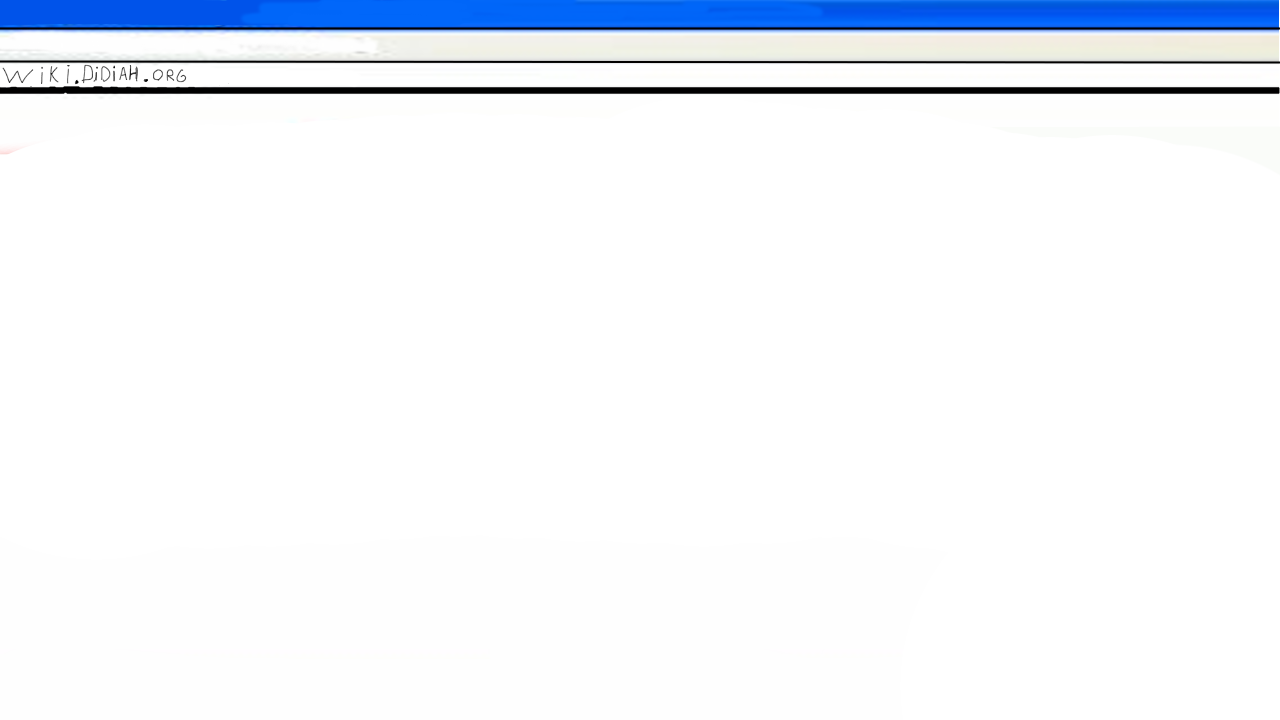
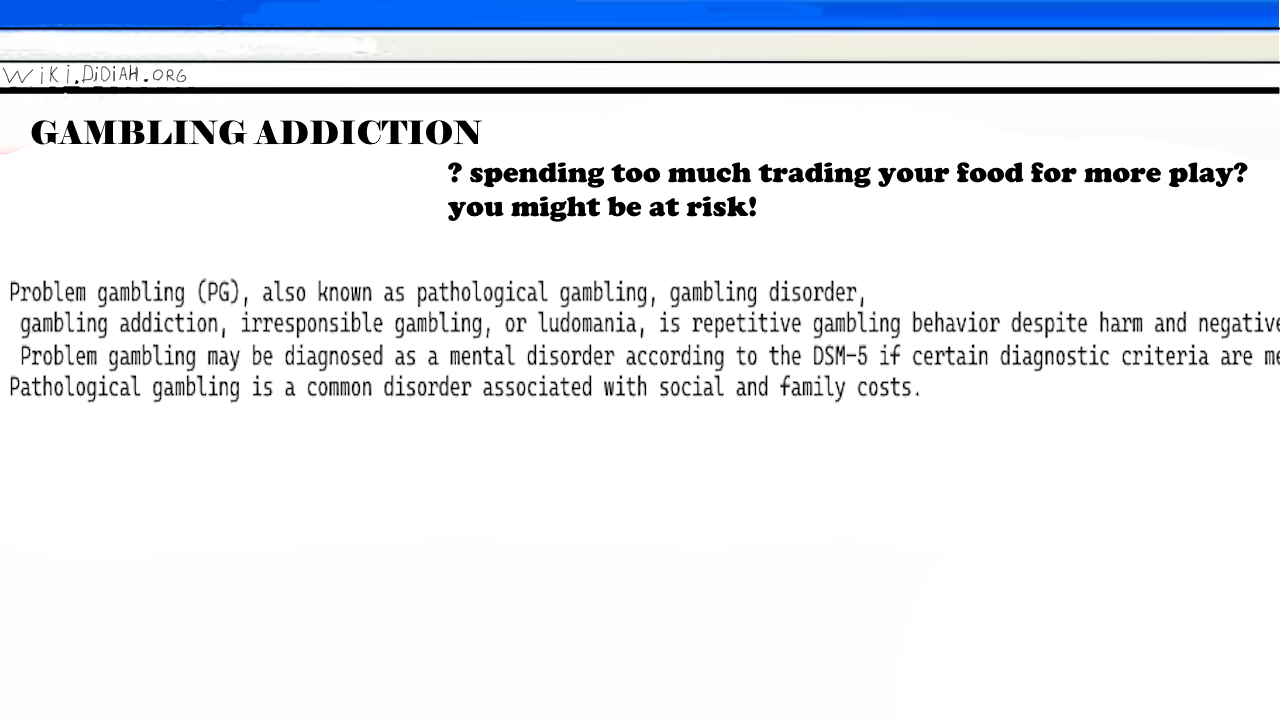
wiki

Changed region(s): [[0.0, 0.3667, 1.0, 0.55], [0.0312, 0.1528, 0.9688, 0.3056]]

diff --git a/pc.py b/pc.py
@@ -18,7 +18,7 @@ def check_win(player):
     if player.cash >= 10000:
         player.win = True
     return getattr(player, "win", False)
-
+ 
 
 #######asset loading########
 class Button:
@@ -138,32 +138,55 @@ ICONS = {name: load(f) for f, name, _ in Shop.ITEMS}
 
 class Betting:
     BETS = (("bet_cow.png", "polish_cow_dance_highway", 20), ("bet_poloski.png", "tri_poloski_together", 35))
-    STAKE = 20
+    MAX_DIGITS = 6
 
     def __init__(self, font):
         self.font = font
         self.buttons = [(Button(f, (90, 220 + i * 100)), key, chance) for i, (f, key, chance) in enumerate(self.BETS)]
+        self.text = "20"
+        self.editing = False
+        self.stake_rect = pygame.Rect(90, 150, 0, 0)
+
+    @property
+    def stake(self):
+        return int(self.text) if self.text else 0
+
+    def key(self, e):
+        if not self.editing:
+                return
+        if e.key in (pygame.K_RETURN, pygame.K_KP_ENTER):
+            self.editing = False
+        elif e.key == pygame.K_BACKSPACE:
+            self.text = self.text[:-1]
+        elif e.unicode and e.unicode in "0123456789" and len(self.text) < self.MAX_DIGITS:
+            self.text += e.unicode
 
     def payout(self, chance):
-        return round (self.STAKE * 100 / chance)
+        return round (self.stake * 100 / chance)
 
     def click(self, pos, player):
+        if self.stake_rect.collidepoint(pos):
+            self.editing = True
+            return True
+        self.editing = False
         for btn, key, chance in self.buttons:
             if btn.hit(pos):
-                if key not in player.predictions and player.cash >= self.STAKE:
-                    player.cash -= self.STAKE
+                if key not in player.predictions and 0 < self.stake <= player.cash:
+                    player.cash -= self.stake
                     player.predictions[key] = [chance, self.payout(chance)]
                 return True
         return False
 
     def draw(self, canvas, mouse, player):
+        stake_surf = self.font.render(f"Stake: ${self.text}{'|' if self.editing else ''}", True, (0, 0, 0))
+        self.stake_rect = stake_surf.get_rect(topleft=(90, 150))
+        canvas.blit(stake_surf, self.stake_rect)
+        
         for btn, key, chance in self.buttons:
             btn.draw(canvas, mouse)
             label = "BET PLACED" if key in player.predictions else f"{chance}% -> ${self.payout(chance)}"
             canvas.blit(self.font.render(label, True, (0, 0, 0)), (btn.rect.right + 20, btn.rect.y + 10))
         canvas.blit(self.font.render(f"{player.cash}", True, (0, 0, 0)), (90, 665))
-        
-        
 
 class Browser:
     TAB_X, TAB_Y, TAB_GAP, MAX_TABS = 10, 6, 2, 15
@@ -217,6 +240,10 @@ class Browser:
             self.drag(e.pos[0])
         elif e.type == pygame.MOUSEBUTTONUP and e.button == 1:
             self.dragging = None
+        elif e.type == pygame.KEYDOWN:
+            app = self.apps.get(self.tabs[self.current])
+            if app is not None and hasattr(app, "key"):
+                app.key(e)
 
     def click(self, pos):
         cur = self.tabs[self.current]
